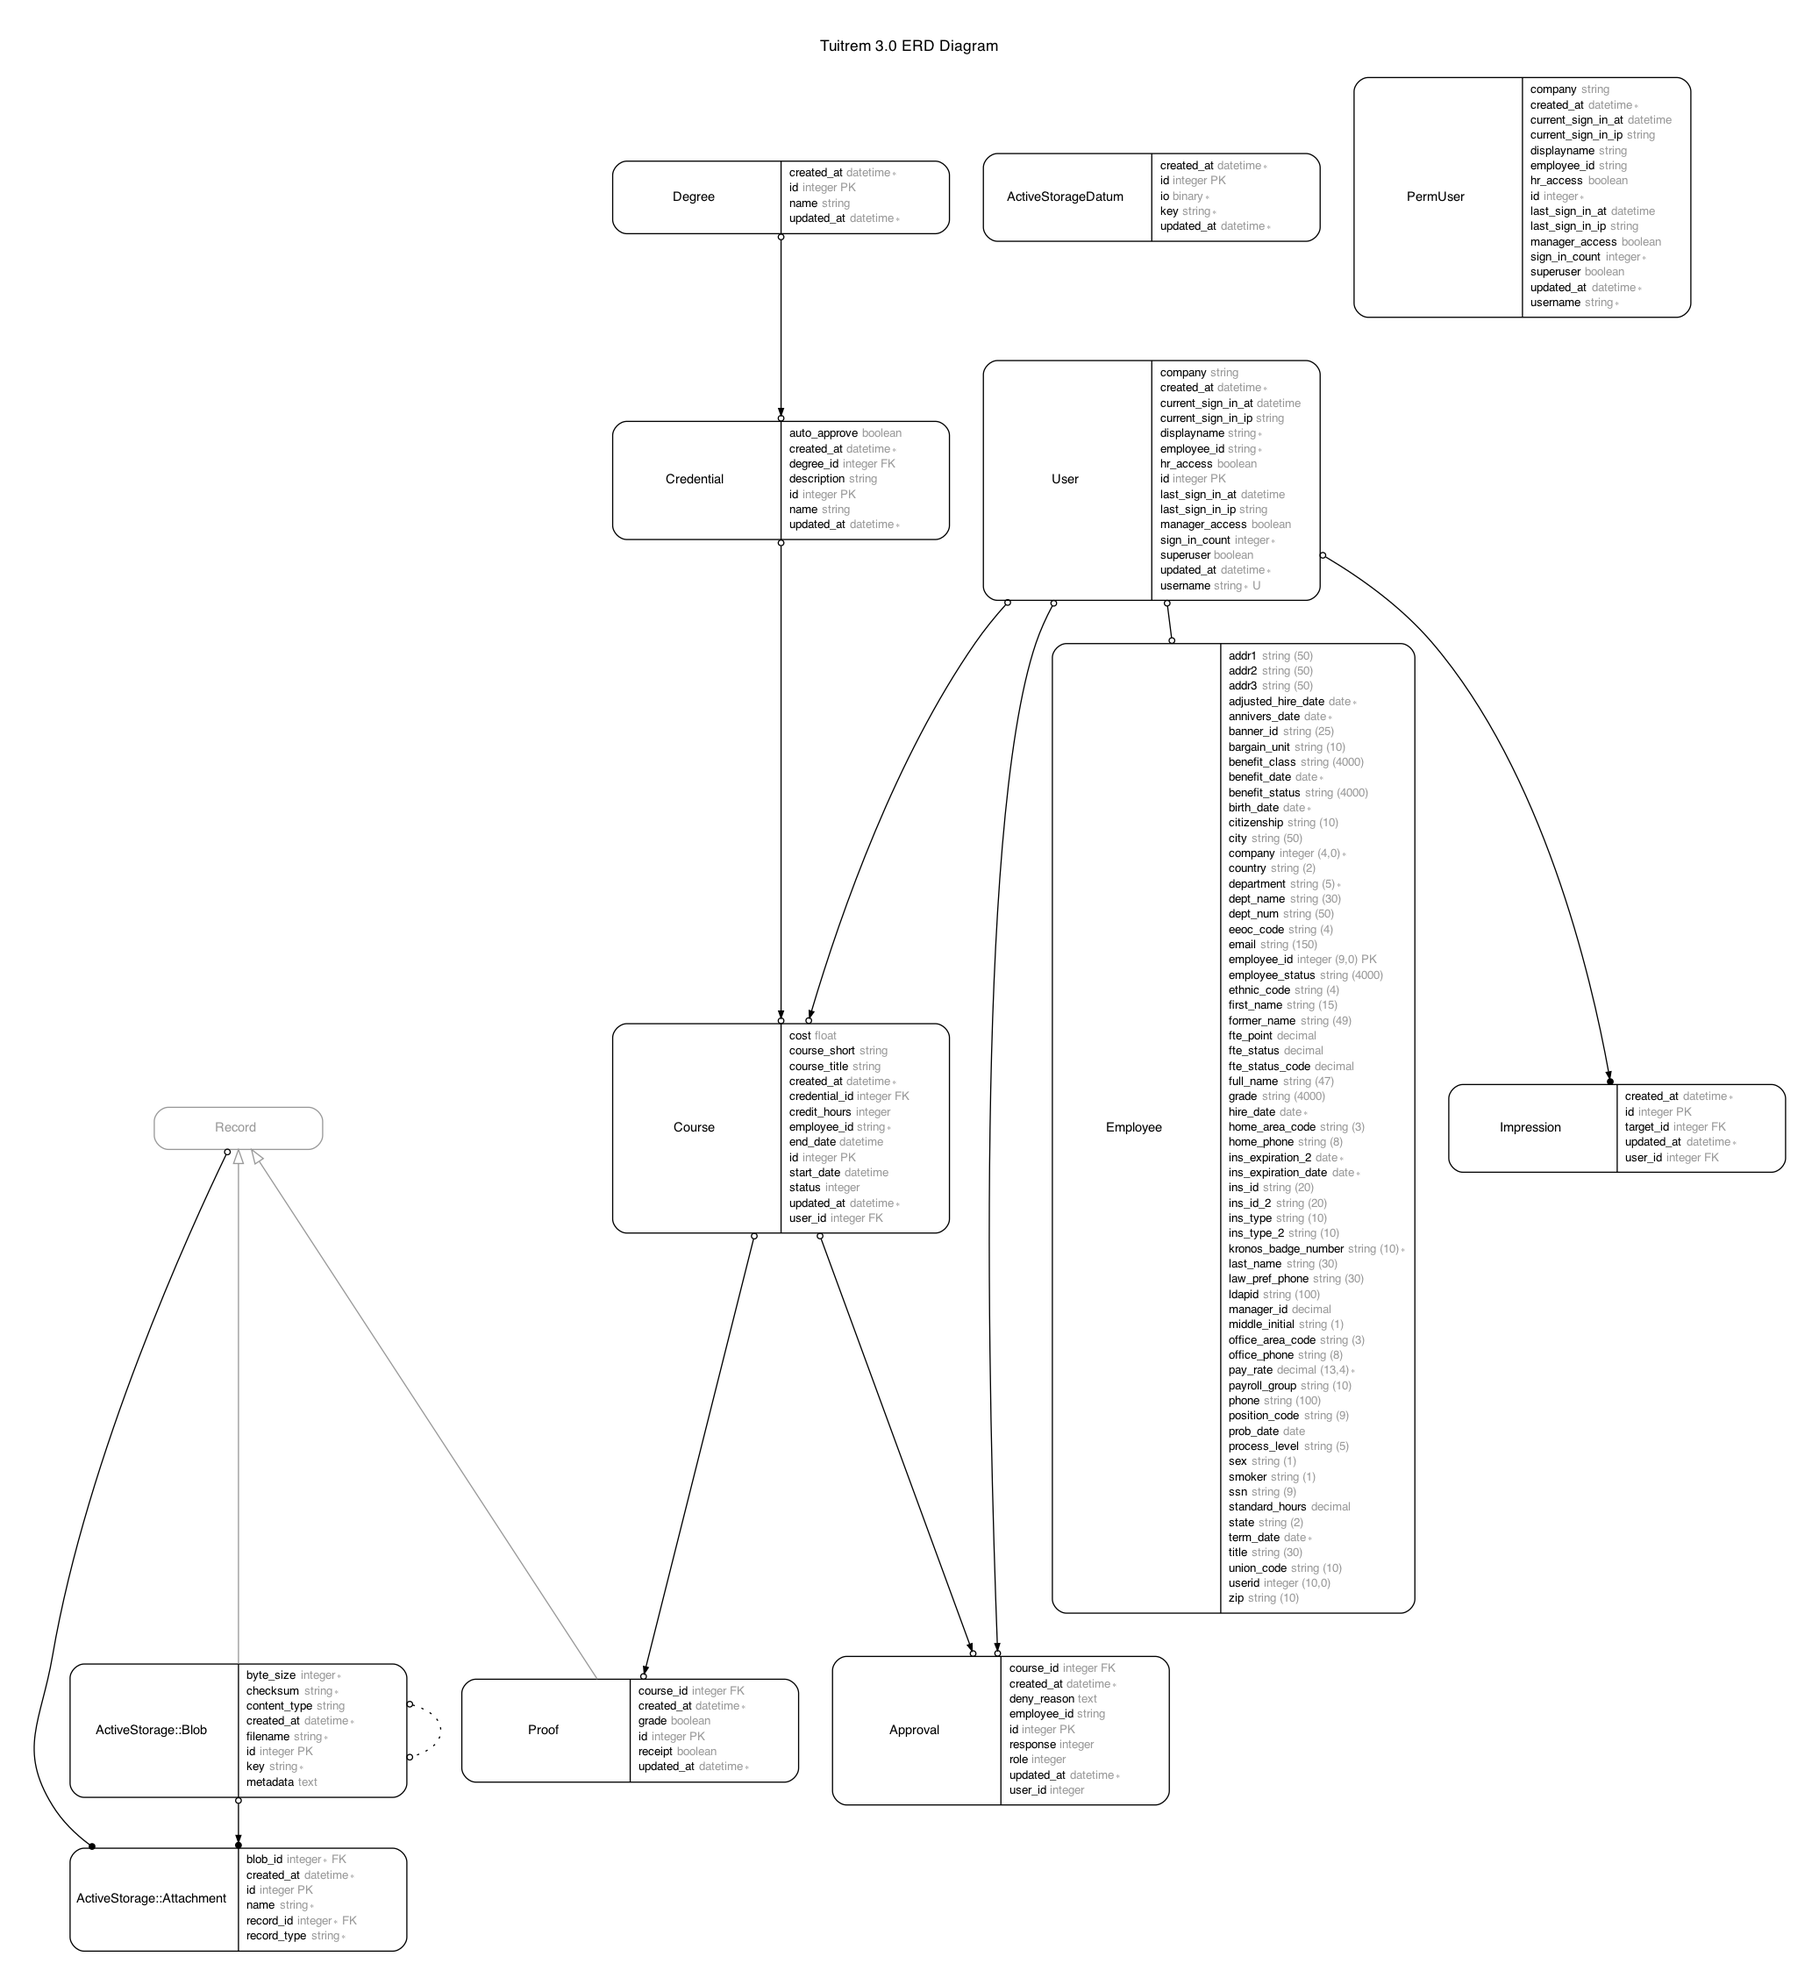
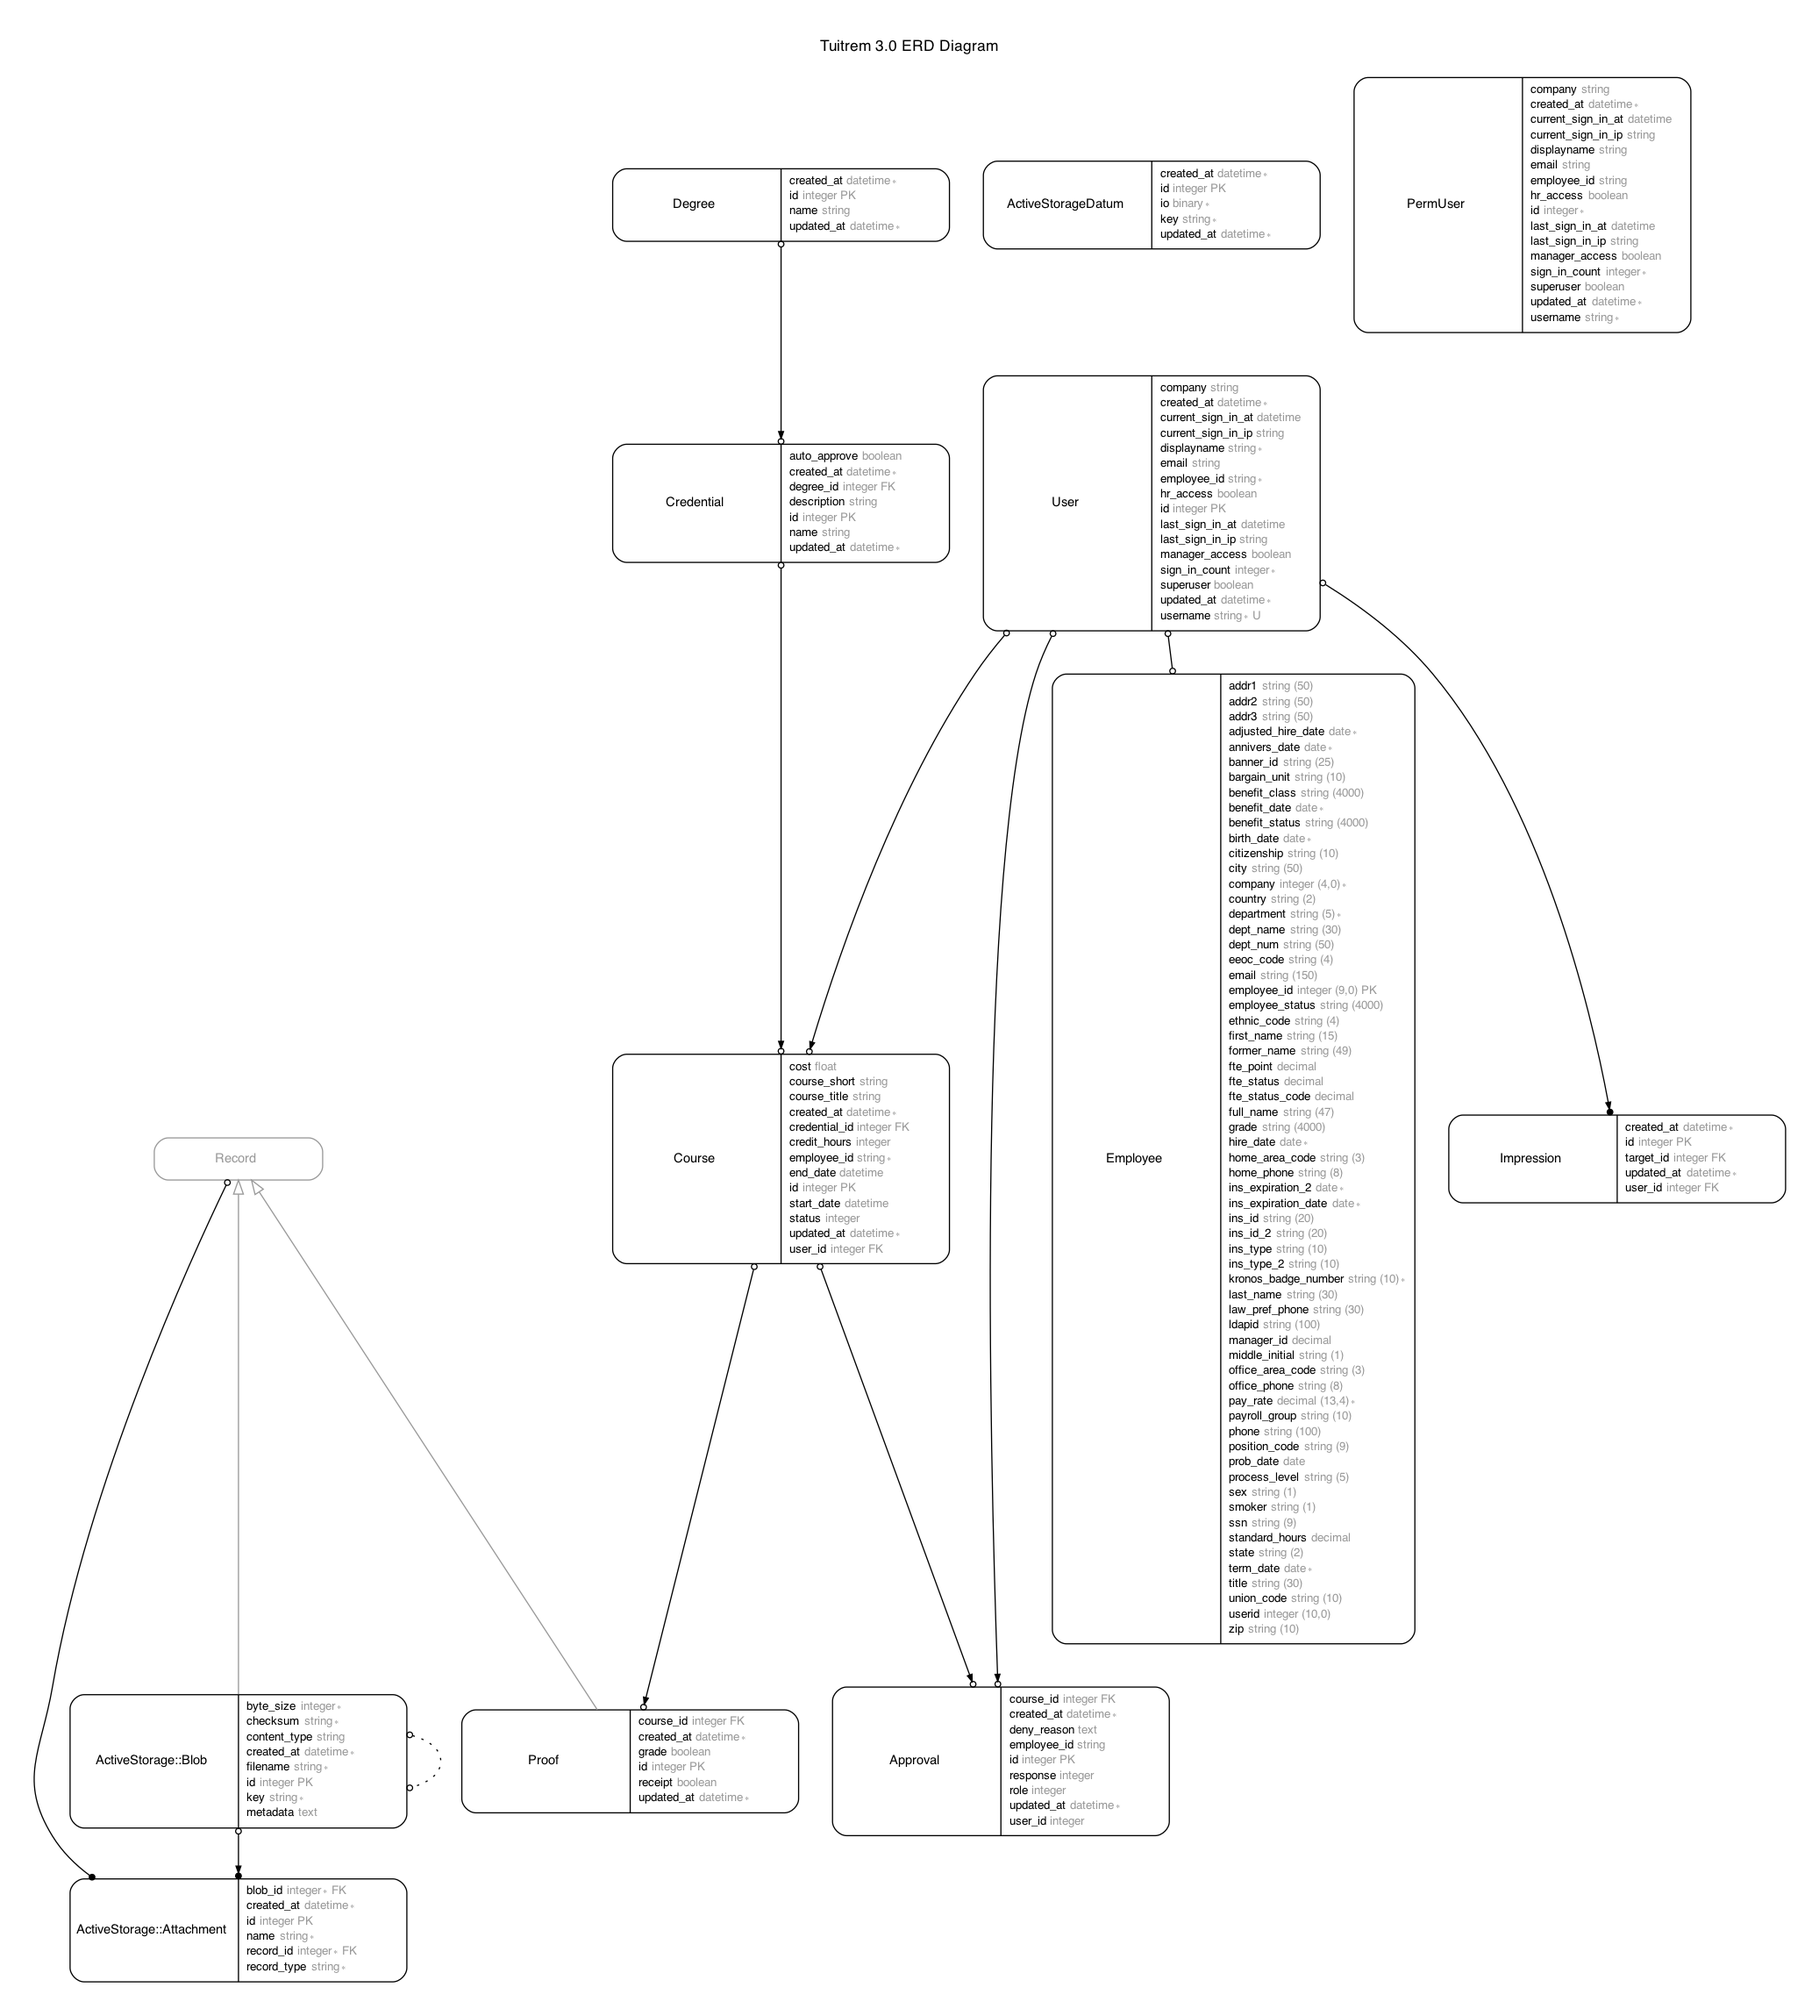
WIP #4 added email to users model for ease of access - will update automagically with the unmh-auth_gem

diff --git a/app/models/user.rb b/app/models/user.rb
@@ -7,6 +7,7 @@
 #  current_sign_in_at :datetime
 #  current_sign_in_ip :string
 #  displayname        :string
+#  email              :string
 #  hr_access          :boolean
 #  last_sign_in_at    :datetime
 #  last_sign_in_ip    :string
@@ -74,6 +75,8 @@ class User < ApplicationRecord
         self.displayname = value
       when :employeeid
         self.employee_id = value
+      when :email
+        self.email = value
       when :memberof
         # Verify if the person hitting the app is part of devgroup
         self.superuser = value.include?('CN=devgroup,OU=UNMH_IT_Admin,OU=Group,OU=UNMH,DC=health,DC=unm,DC=edu')

diff --git a/db/schema.rb b/db/schema.rb
@@ -10,7 +10,7 @@
 #
 # It's strongly recommended that you check this file into your version control system.
 
-ActiveRecord::Schema.define(version: 2021_02_23_200601) do
+ActiveRecord::Schema.define(version: 2021_02_23_224249) do
 
   create_table "active_storage_attachments", force: :cascade do |t|
     t.string "name", null: false
@@ -118,6 +118,7 @@ ActiveRecord::Schema.define(version: 2021_02_23_200601) do
     t.string "company"
     t.boolean "manager_access"
     t.boolean "hr_access"
+    t.string "email"
     t.index ["username"], name: "index_users_on_username", unique: true
   end
 

diff --git a/app/models/perm_user.rb b/app/models/perm_user.rb
@@ -9,6 +9,7 @@
 #  current_sign_in_at :datetime
 #  current_sign_in_ip :string
 #  displayname        :string
+#  email              :string
 #  hr_access          :boolean
 #  last_sign_in_at    :datetime
 #  last_sign_in_ip    :string

diff --git a/spec/factories/perm_users.rb b/spec/factories/perm_users.rb
@@ -7,6 +7,7 @@
 #  current_sign_in_at :datetime
 #  current_sign_in_ip :string
 #  displayname        :string
+#  email              :string
 #  hr_access          :boolean
 #  last_sign_in_at    :datetime
 #  last_sign_in_ip    :string

diff --git a/spec/factories/users.rb b/spec/factories/users.rb
@@ -7,6 +7,7 @@
 #  current_sign_in_at :datetime
 #  current_sign_in_ip :string
 #  displayname        :string
+#  email              :string
 #  hr_access          :boolean
 #  last_sign_in_at    :datetime
 #  last_sign_in_ip    :string

diff --git a/spec/models/perm_user_spec.rb b/spec/models/perm_user_spec.rb
@@ -7,6 +7,7 @@
 #  current_sign_in_at :datetime
 #  current_sign_in_ip :string
 #  displayname        :string
+#  email              :string
 #  hr_access          :boolean
 #  last_sign_in_at    :datetime
 #  last_sign_in_ip    :string

diff --git a/spec/models/user_spec.rb b/spec/models/user_spec.rb
@@ -7,6 +7,7 @@
 #  current_sign_in_at :datetime
 #  current_sign_in_ip :string
 #  displayname        :string
+#  email              :string
 #  hr_access          :boolean
 #  last_sign_in_at    :datetime
 #  last_sign_in_ip    :string

diff --git a/db/migrate/20210223224249_add_email_to_users.rb b/db/migrate/20210223224249_add_email_to_users.rb
@@ -1,0 +1,5 @@
+class AddEmailToUsers < ActiveRecord::Migration[5.2]
+  def change
+    add_column :users, :email, :string
+  end
+end
